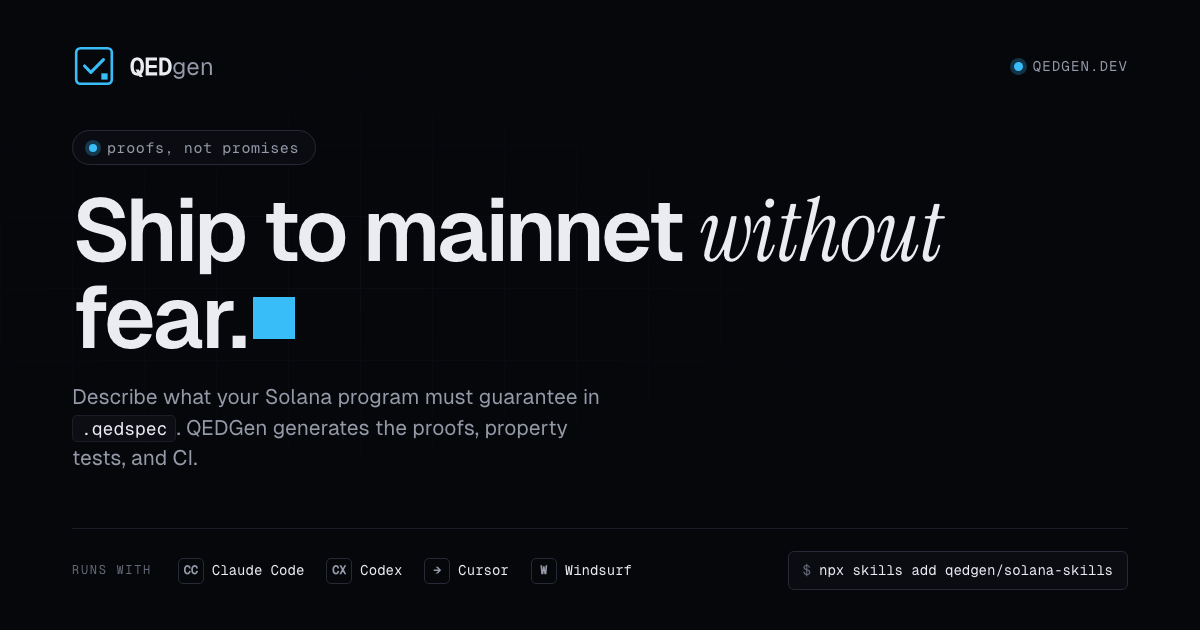
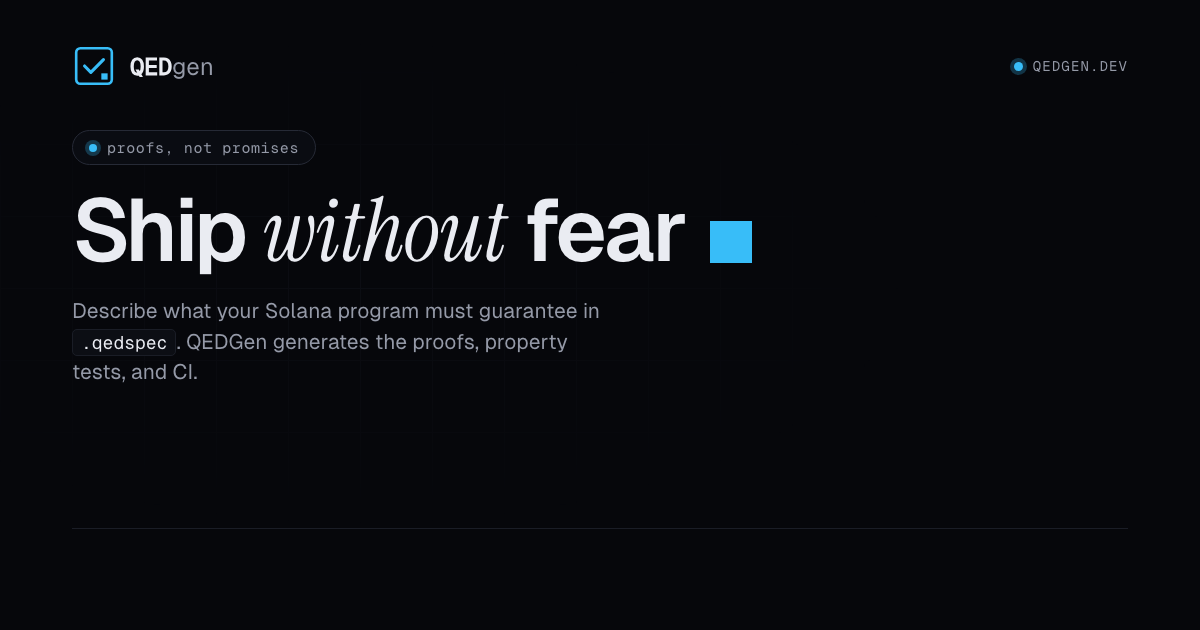
marketing: tighten hero to "Ship without fear", polish tomb
Drop "to mainnet" from the hero so the claim reads as a single sharp line,
and remove the literal period before the QED tombstone so the glyph is the
sole terminator. Lower the tomb slightly and add breathing room after
"fear" so the square doesn't feel crowded against the letterform.

Regenerate docs/og.png from the updated docs/og.html so link unfurls match.

diff --git a/docs/og.html b/docs/og.html
@@ -184,8 +184,8 @@ h1 .italic {
   width: 0.48em;
   height: 0.48em;
   background: var(--accent);
-  vertical-align: 0.1em;
-  margin-left: 0.08em;
+  vertical-align: -0.02em;
+  margin-left: 0.28em;
 }
 
 .sub {
@@ -288,7 +288,7 @@ h1 .italic {
 
   <div class="main">
     <span class="eyebrow"><span class="dot"></span>proofs, not promises</span>
-    <h1>Ship to mainnet <span class="italic">without</span> fear.<span class="tomb"></span></h1>
+    <h1>Ship <span class="italic">without</span> fear<span class="tomb"></span></h1>
     <p class="sub">
       Describe what your Solana program must guarantee in <code>.qedspec</code>.
       QEDGen generates the proofs, property tests, and CI.

diff --git a/docs/index.html b/docs/index.html
@@ -45,7 +45,7 @@
 
       <div class="claim">
         <span class="eyebrow"><span class="dot"></span>proofs, not promises</span>
-        <h1>Ship to mainnet <span class="italic">without</span> fear.<span class="tomb"></span></h1>
+        <h1>Ship <span class="italic">without</span> fear<span class="tomb"></span></h1>
         <p class="sub">
           Describe what your Solana program must guarantee in <code>.qedspec</code>.
           QEDGen finds the bugs your tests miss, then generates the proofs, property tests,

diff --git a/docs/style.css b/docs/style.css
@@ -83,8 +83,8 @@ a { color: inherit; text-decoration: none; }
   width: 0.48em;
   height: 0.48em;
   background: var(--accent);
-  vertical-align: 0.1em;
-  margin-left: 0.1em;
+  vertical-align: -0.02em;
+  margin-left: 0.28em;
 }
 
 .page {
